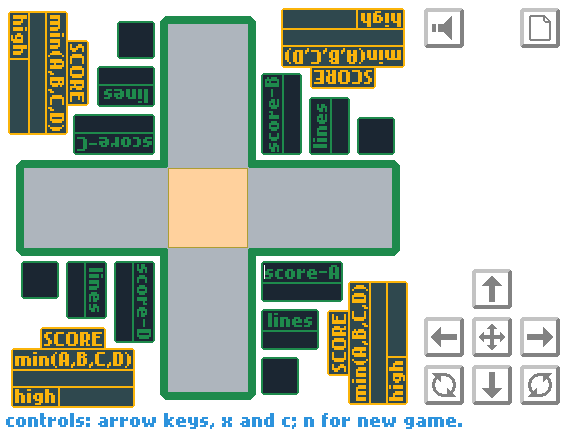
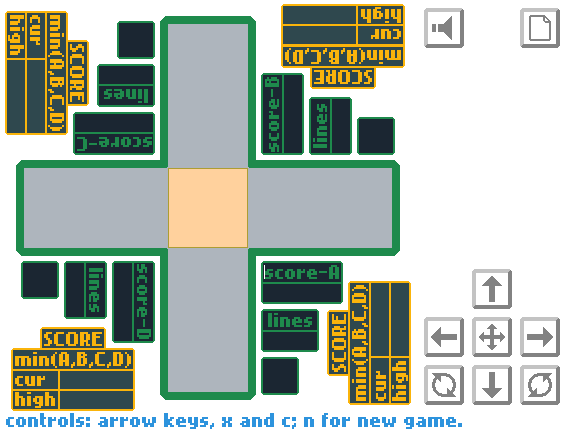
guter Fortschritt

diff --git a/game.js b/game.js
@@ -25,6 +25,9 @@ window["onscroll"]=function(e){ reOffset(); }
 window["onresize"]=function(e){ reOffset(); }
 
 var score=0;
+var scores=[0,0,0,0];
+var linecount=[0,0,0,0];
+
 var highscore=0;
 
 var images=[];
@@ -32,10 +35,7 @@ var images=[];
 var gw=4;
 var gh=4;
 
-var anim_frames=5;
-var anim_length=30;
 
-var anim_phase;//goes to 10 say
 var anim;
 var spawn;
 
@@ -126,6 +126,18 @@ var tetrominos = [
 	],
 	// O-piece
 	[
+		[
+			[ 1, 1, ],
+			[ 1, 1, ],
+		],
+		[
+			[ 1, 1, ],
+			[ 1, 1, ],
+		],
+		[
+			[ 1, 1, ],
+			[ 1, 1, ],
+		],
 		[
 			[ 1, 1, ],
 			[ 1, 1, ],
@@ -373,7 +385,7 @@ async function prüfZeilen(){
 	score=dscore;
 	if (score>highscore){
 		highscore=score;
-		localStorage.setItem('my_max_combo',highscore);
+		localStorage.setItem('musi_my_max_combo',highscore);
 	}
 }
 function wähleNeuesStück(){
@@ -460,7 +472,6 @@ function projizieren(){
 			var has=false;
 			for (var j=0;j<nächst_z_h;j++){
 				var sd = (stück[j][i]>>1)%16
-				console.log(sd)
 				if ( sd!==0){
 					has=true;
 				}
@@ -540,7 +551,6 @@ soff=0;
 	[[0,0],[0,0],[0,0],[0,0],[0,0]]];
 	state=[[0,0,0,0,0],[0,0,0,0,0],[0,0,0,0,0],[0,0,0,0,0],[0,0,0,0,0]];
 	spawn=[[0,0,0,0,0],[0,0,0,0,0],[0,0,0,0,0],[0,0,0,0,0],[0,0,0,0,0]];
-	anim_phase=0;
 	score=0;
 
 	moving=false;
@@ -593,7 +603,7 @@ function redraw(){
 		var nächst_h=nächst_z_h*8;
 		var nächst_b=nächst_z_b*8;
 		
-		var zukünftiges_stück=tetrominos[zukünftiges][zukünftiges_drehung];
+		var zukünftiges_stück=tetrominos[zukünftiges][(zukünftiges_drehung+brunnen_index)%4];
 		var zukünftiges_z_h=zukünftiges_stück.length;
 		var zukünftiges_z_b=zukünftiges_stück[0].length;
 		var zukünftiges_h=zukünftiges_z_h*8;
@@ -630,8 +640,7 @@ function redraw(){
 					var y=sby+8*(j-verborgene_zeilen);
 					
 					var datum=zustand[j][i];
-					var stücktyp=datum>>5;
-					console.log(stücktyp);
+					var stücktyp=((datum%256)>>5);
 					var lu = lookup(stücktyp,datum);
 					var tx=8*lu[0];
 					var ty=8*lu[1];
@@ -642,6 +651,44 @@ function redraw(){
 		}
 
 
+		for(var i=0;i<3;i++){
+			var z_b=10;
+			var z_h=14;
+			var z_x=265;
+			var z_y=286;
+			var ziffer= Math.floor(scores[brunnen_index]/(Math.pow(10,i)))%10;
+			ctx.drawImage(images["ziffer_nokia_gr"],10*ziffer,0,z_b,z_h,z_x+12*i,z_y,z_b,z_h);
+		}
+
+		for(var i=0;i<3;i++){
+			var z_b=10;
+			var z_h=14;
+			var z_x=265;
+			var z_y=334;
+			var ziffer= Math.floor(linecount[brunnen_index]/(Math.pow(10,i)))%10;
+			ctx.drawImage(images["ziffer_nokia_gr"],10*ziffer,0,z_b,z_h,z_x+12*i,z_y,z_b,z_h);
+		}
+
+
+		for(var i=0;i<3;i++){
+			var z_b=10;
+			var z_h=14;
+			var z_x=72;
+			var z_y=373;
+			var ziffer= Math.floor(score/(Math.pow(10,i)))%10;
+			ctx.drawImage(images["ziffer_nokia"],10*ziffer,0,z_b,z_h,z_x+12*i,z_y,z_b,z_h);
+		}
+
+
+
+		for(var i=0;i<3;i++){
+			var z_b=10;
+			var z_h=14;
+			var z_x=72;
+			var z_y=393;
+			var ziffer= Math.floor(highscore/(Math.pow(10,i)))%10;
+			ctx.drawImage(images["ziffer_nokia"],10*ziffer,0,z_b,z_h,z_x+12*i,z_y,z_b,z_h);
+		}
 
 		ctx.restore();
 	}
@@ -652,15 +699,6 @@ function redraw(){
 		ctx.drawImage(images[siegimg_name[sprache]],15,29);
 	}
 
-
-	for(var i=0;i<3;i++){
-		var z_b=10;
-		var z_h=14;
-		var z_x=125;
-		var z_y=161;
-		var ziffer= Math.floor(highscore/(Math.pow(10,i)))%10;
-		ctx.drawImage(images["ziffer_nokia"],10*ziffer,0,z_b,z_h,z_x+4*i,z_y,z_b,z_h);
-	}
 
 
 	if (stumm){
@@ -859,7 +897,7 @@ async function doMove(dx,dy){
 
 		for (var i=0;i<raster_b;i++){
 			for (var j=0;j<raster_h;j++){
-				if (zustand[j][i]===0){
+				if (zustand[j][i]===0 || ( (zustand[j][i]&256)===256) ){
 					anims[j][i]=0;
 				} else {
 					anims[j][i]=1;
@@ -960,6 +998,14 @@ async function doMove(dx,dy){
 			}
 		}
 
+	}
+
+	for (var i=0;i<raster_b;i++){
+		for (var j=0;j<raster_h;j++){
+			if (zustand[j][i]!==0){
+				zustand[j][i]=zustand[j][i]|256;
+			}
+		}
 	}
 
 	await prüfZeilen();
@@ -1348,7 +1394,7 @@ canvas.addEventListener("pointerup",handleUntap);
 document.addEventListener("keydown",handleKeyDown);
 document.addEventListener("keyup",handleKeyUp);
 
-highscore = parseInt(localStorage.getItem('my_max_combo'));
+highscore = parseInt(localStorage.getItem('musi_my_max_combo'));
 if (Number.isNaN(highscore)){
 	highscore=0;
 }

diff --git a/style.css b/style.css
@@ -23,7 +23,7 @@ html{
 		}
 
 		canvas {  
-    width: 90vw;
-    height: 90vh;
+    width: 99vw;
+    height: 99vh;
     object-fit: contain;
 }
